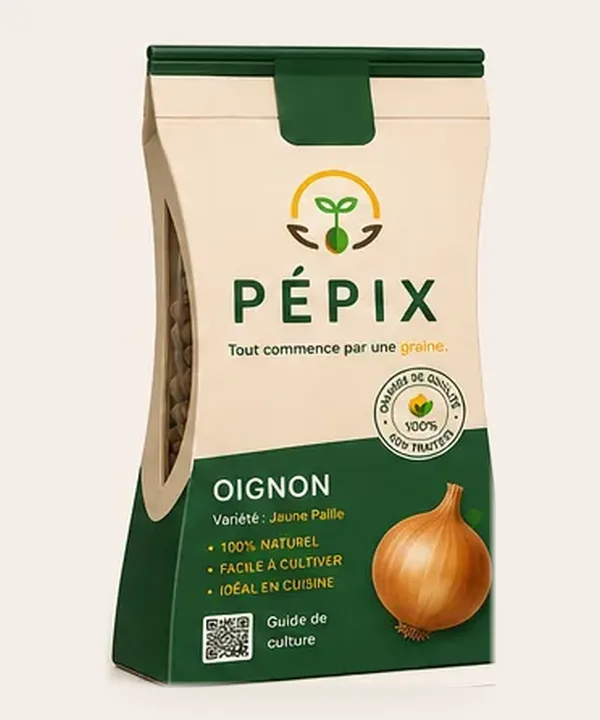
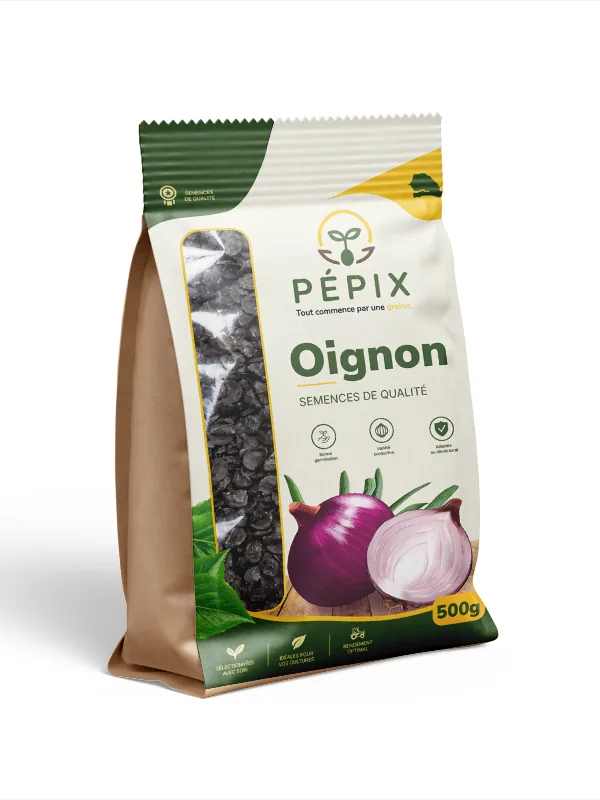
feat: nouveaux visuels des sachets 500 g
- Photos des sachets oignon, tomate, chou et piment remplacées par les visuels 500 g
- Versions détourées régénérées (fond et ombre portée retirés), 294 × 440 px
- Dimensions des images mises à jour (accueil, qui sommes-nous, 404)

diff --git a/404.html b/404.html
@@ -66,10 +66,10 @@
     <section class="conteneur raccourcis" aria-labelledby="t-raccourcis">
       <h2 id="t-raccourcis">Vous cherchiez une fiche de culture&nbsp;?</h2>
       <ul class="raccourcis-liste">
-          <li><a href="conseils.html#fiche-oignon"><img src="img/sachet-oignon-detoure.webp" alt="" width="267" height="440" loading="lazy"><span>Oignon</span></a></li>
-          <li><a href="conseils.html#fiche-tomate"><img src="img/sachet-tomate-detoure.webp" alt="" width="223" height="440" loading="lazy"><span>Tomate</span></a></li>
-          <li><a href="conseils.html#fiche-chou"><img src="img/sachet-chou-detoure.webp" alt="" width="261" height="440" loading="lazy"><span>Chou</span></a></li>
-          <li><a href="conseils.html#fiche-piment"><img src="img/sachet-piment-detoure.webp" alt="" width="231" height="440" loading="lazy"><span>Piment</span></a></li>
+          <li><a href="conseils.html#fiche-oignon"><img src="img/sachet-oignon-detoure.webp" alt="" width="294" height="440" loading="lazy"><span>Oignon</span></a></li>
+          <li><a href="conseils.html#fiche-tomate"><img src="img/sachet-tomate-detoure.webp" alt="" width="294" height="440" loading="lazy"><span>Tomate</span></a></li>
+          <li><a href="conseils.html#fiche-chou"><img src="img/sachet-chou-detoure.webp" alt="" width="294" height="440" loading="lazy"><span>Chou</span></a></li>
+          <li><a href="conseils.html#fiche-piment"><img src="img/sachet-piment-detoure.webp" alt="" width="294" height="440" loading="lazy"><span>Piment</span></a></li>
       </ul>
     </section>
   </main>

diff --git a/index.html b/index.html
@@ -84,10 +84,10 @@
         </div>
         <!-- Les quatre sachets en éventail : décoratifs, les mêmes sont présentés juste en dessous -->
         <div class="heros-sachets" aria-hidden="true">
-          <img src="img/sachet-oignon-detoure.webp" alt="" width="267" height="440">
-          <img src="img/sachet-tomate-detoure.webp" alt="" width="223" height="440">
-          <img src="img/sachet-chou-detoure.webp" alt="" width="261" height="440">
-          <img src="img/sachet-piment-detoure.webp" alt="" width="231" height="440">
+          <img src="img/sachet-oignon-detoure.webp" alt="" width="294" height="440">
+          <img src="img/sachet-tomate-detoure.webp" alt="" width="294" height="440">
+          <img src="img/sachet-chou-detoure.webp" alt="" width="294" height="440">
+          <img src="img/sachet-piment-detoure.webp" alt="" width="294" height="440">
         </div>
       </div>
       <button type="button" class="video-bouton" aria-pressed="false" aria-label="Mettre la vidéo en pause" hidden></button>

diff --git a/qui-sommes-nous.html b/qui-sommes-nous.html
@@ -77,7 +77,7 @@
 
     <section class="conteneur sachet-contenu" aria-labelledby="t-sachet">
       <figure class="sachet-visuel">
-        <img src="img/sachet-tomate-detoure.webp" width="223" height="440" loading="lazy"
+        <img src="img/sachet-tomate-detoure.webp" width="294" height="440" loading="lazy"
              alt="Sachet de semences de tomate Pépix, variété Marmande : l'emballage prévu pour la marque">
       </figure>
       <div class="sachet-texte">
